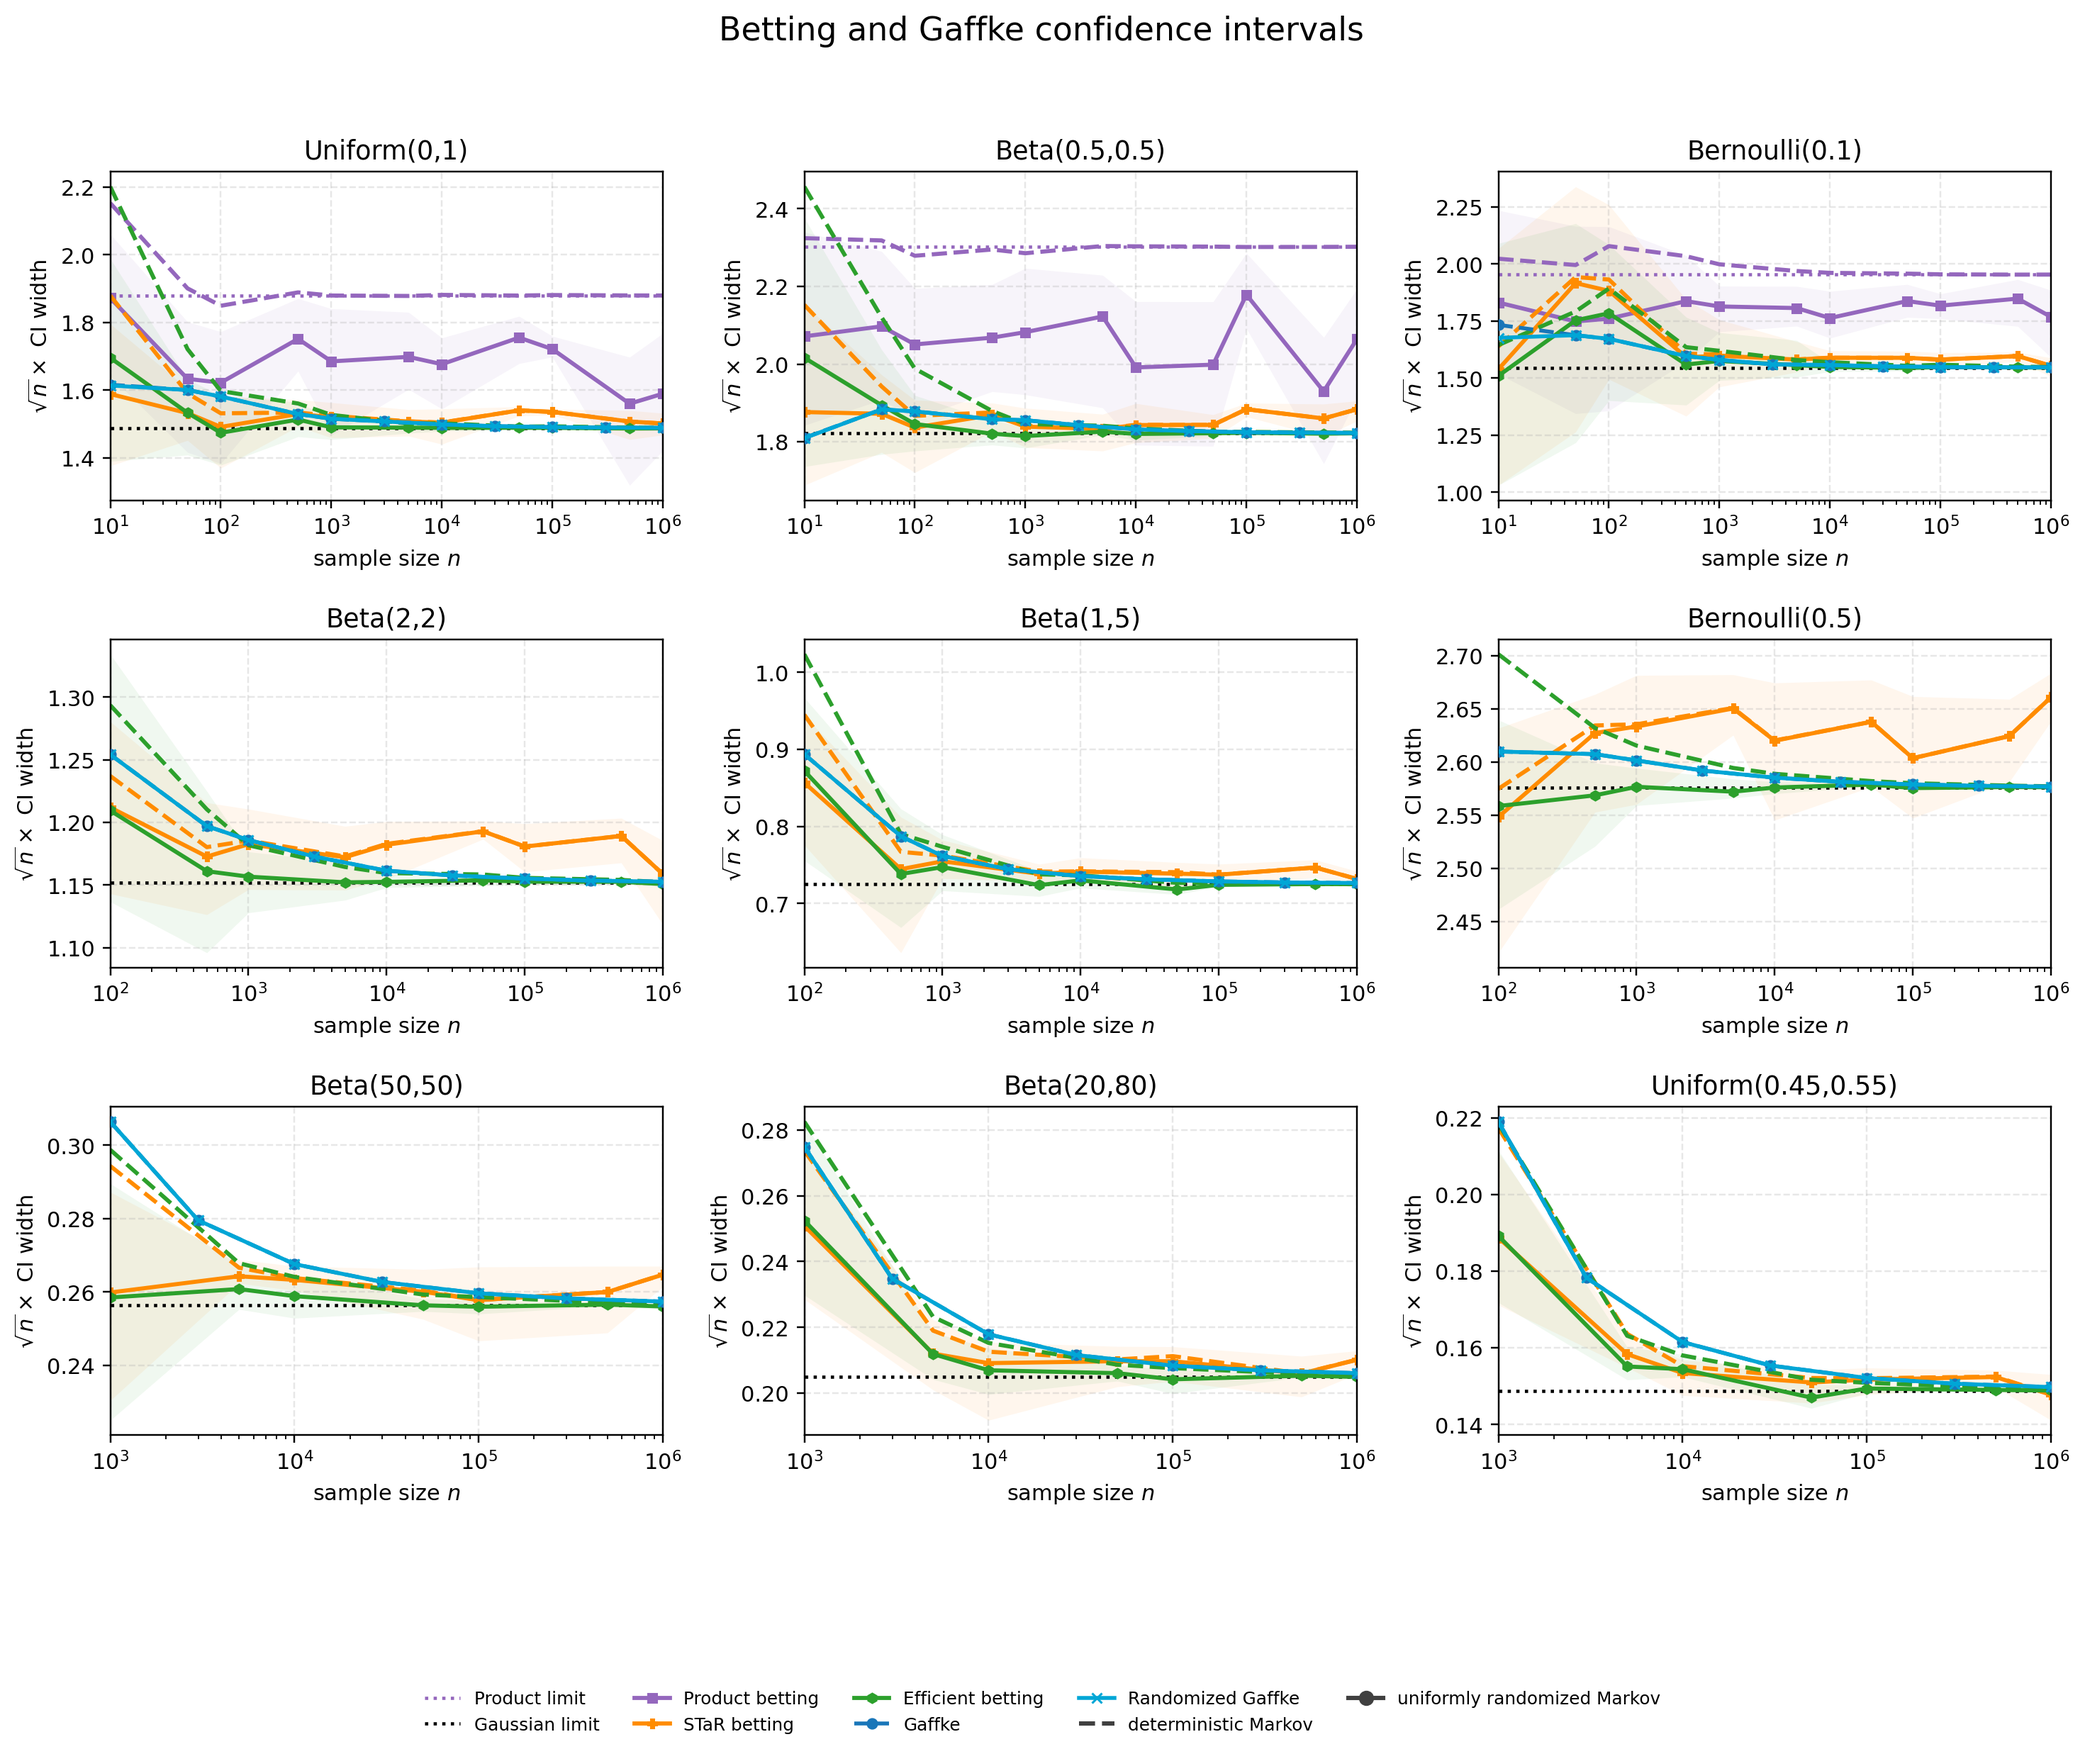
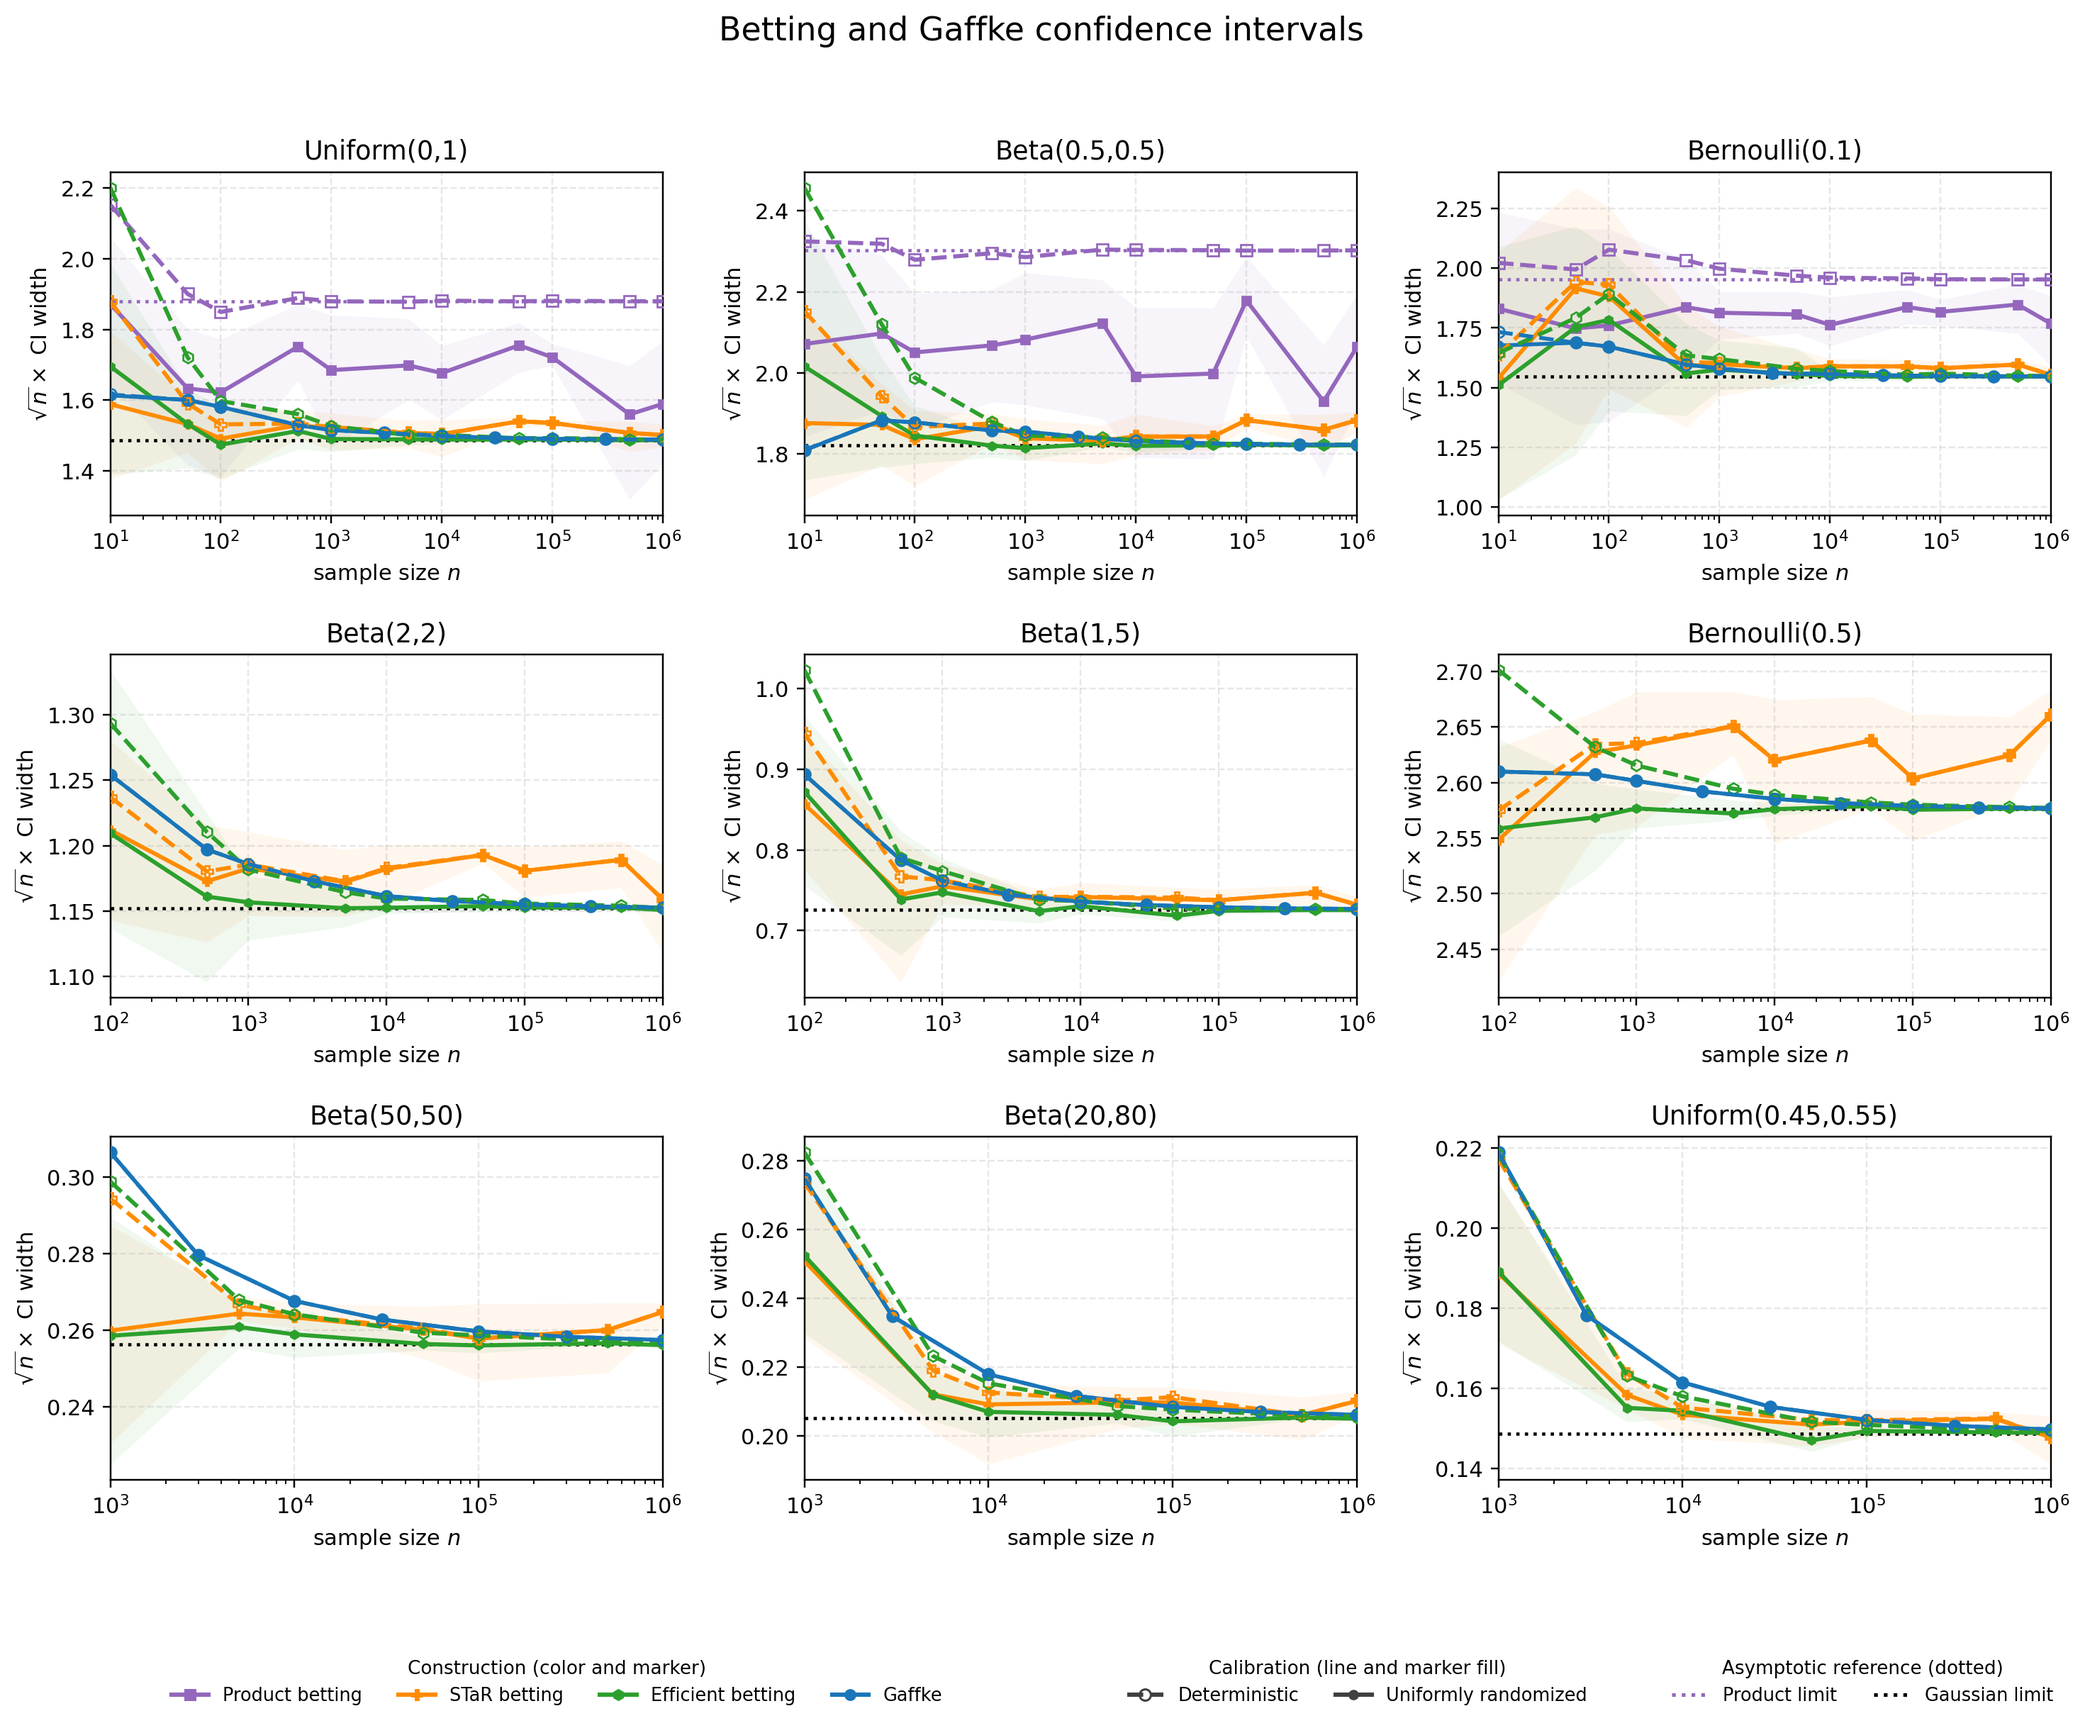
Redesign Figure 2 comparison legend

diff --git a/plot_combined_main_figure.py b/plot_combined_main_figure.py
@@ -56,6 +56,17 @@ PANEL_ORDER = (
 )
 ROW_MINIMUM_N = (10, 100, 1_000)
 MAXIMUM_N = 1_000_000
+GAFFKE_RANDOMIZED_ORDER = (
+    "Uniform(0,1)",
+    "Beta(1,5)",
+    "Beta(0.5,0.5)",
+    "Bernoulli(0.1)",
+    "Beta(50,50)",
+    "Beta(20,80)",
+    "Beta(2,2)",
+    "Bernoulli(0.5)",
+    "Uniform(0.45,0.55)",
+)
 
 METHODS = (
     ("product_original", "#9467bd", "s", "Product betting"),
@@ -214,7 +225,9 @@ def _reconstruct_source(
     tail_probability = float(config["delta"]) / 2.0
     randomized_rows: list[dict[str, object]] = []
 
-    for distribution_name in allowed_distributions:
+    for distribution_name in GAFFKE_RANDOMIZED_ORDER:
+        if distribution_name not in allowed_distributions:
+            continue
         distribution_index, distribution = distribution_by_name[
             distribution_name
         ]
@@ -368,7 +381,10 @@ def _plot_saved_rows(
     marker: str | None,
     label: str,
     linestyle: str,
-    fill: bool,
+    show_band: bool,
+    filled_marker: bool,
+    marker_size: float,
+    zorder: float,
 ) -> None:
     means = np.asarray([row["mean"] for row in rows], dtype=float)
     axis.plot(
@@ -376,12 +392,16 @@ def _plot_saved_rows(
         means,
         color=color,
         marker=marker,
-        ms=4.2,
+        markerfacecolor=color if filled_marker else "none",
+        markeredgecolor=color,
+        markeredgewidth=0.9,
+        ms=marker_size,
         lw=1.9,
         ls=linestyle,
         label=label,
+        zorder=zorder,
     )
-    if fill:
+    if show_band:
         lows = np.asarray([row["lo"] for row in rows], dtype=float)
         highs = np.asarray([row["hi"] for row in rows], dtype=float)
         axis.fill_between(
@@ -391,6 +411,7 @@ def _plot_saved_rows(
             color=color,
             alpha=0.07,
             linewidth=0.0,
+            zorder=1,
         )
 
 
@@ -437,7 +458,7 @@ def make_figure() -> Path:
                 color=color,
                 ls=":",
                 lw=1.5,
-                label=label,
+                label="_nolegend_",
             )
 
         row_methods = METHODS if panel_index < 3 else METHODS[1:]
@@ -459,22 +480,28 @@ def make_figure() -> Path:
             _plot_saved_rows(
                 axis,
                 betting_n,
-                [deterministic[index] for index in betting_indices],
+                [randomized[index] for index in betting_indices],
                 color=color,
-                marker=None,
+                marker=marker,
                 label="_nolegend_",
-                linestyle="--",
-                fill=False,
+                linestyle="-",
+                show_band=True,
+                filled_marker=True,
+                marker_size=3.8,
+                zorder=3,
             )
             _plot_saved_rows(
                 axis,
                 betting_n,
-                [randomized[index] for index in betting_indices],
+                [deterministic[index] for index in betting_indices],
                 color=color,
                 marker=marker,
-                label=label,
-                linestyle="-",
-                fill=True,
+                label="_nolegend_",
+                linestyle="--",
+                show_band=False,
+                filled_marker=False,
+                marker_size=5.2,
+                zorder=4,
             )
 
         panel_gaffke = gaffke[
@@ -482,20 +509,20 @@ def make_figure() -> Path:
             & (gaffke["n"] >= minimum_n)
             & (gaffke["n"] <= MAXIMUM_N)
         ]
-        for method, color, marker, linestyle, label in (
+        for method, linestyle, filled_marker, marker_size, zorder in (
             (
-                "Gaffke",
-                "#1976b9",
-                "o",
-                "--",
-                "Gaffke",
+                "Randomized Gaffke",
+                "-",
+                True,
+                3.8,
+                3,
             ),
             (
-                "Randomized Gaffke",
-                "#00a6d6",
-                "x",
-                "-",
-                "Randomized Gaffke",
+                "Gaffke",
+                "--",
+                False,
+                5.2,
+                4,
             ),
         ):
             method_rows = panel_gaffke[
@@ -504,13 +531,18 @@ def make_figure() -> Path:
             axis.plot(
                 method_rows["n"],
                 method_rows["mean"],
-                color=color,
-                marker=marker,
+                color="#1976b9",
+                marker="o",
+                markerfacecolor=(
+                    "#1976b9" if filled_marker else "none"
+                ),
+                markeredgecolor="#1976b9",
+                markeredgewidth=0.9,
                 ls=linestyle,
                 lw=1.8,
-                ms=4.3,
-                label=label,
-                zorder=4,
+                ms=marker_size,
+                label="_nolegend_",
+                zorder=zorder,
             )
 
         axis.set_xscale("log")
@@ -520,39 +552,78 @@ def make_figure() -> Path:
         axis.set_ylabel(r"$\sqrt{n}\times$ CI width")
         axis.grid(True, ls="--", alpha=0.3)
 
-    handles, labels = axes.ravel()[0].get_legend_handles_labels()
-    handles.extend(
-        [
-            Line2D([0], [0], color="0.25", ls="--", lw=2),
-            Line2D(
-                [0],
-                [0],
-                color="0.25",
-                ls="-",
-                marker="o",
-                lw=2,
-            ),
-        ]
-    )
-    labels.extend(
-        [
-            "deterministic Markov",
-            "uniformly randomized Markov",
-        ]
-    )
+    method_handles = [
+        Line2D(
+            [0], [0], color=color, marker=marker, lw=2,
+            markerfacecolor=color, markeredgecolor=color, ms=4.5,
+        )
+        for color, marker in (
+            ("#9467bd", "s"),
+            ("darkorange", "P"),
+            ("#2ca02c", "h"),
+            ("#1976b9", "o"),
+        )
+    ]
+    method_labels = [
+        "Product betting",
+        "STaR betting",
+        "Efficient betting",
+        "Gaffke",
+    ]
+    calibration_handles = [
+        Line2D(
+            [0], [0], color="0.25", ls="--", marker="o", lw=2,
+            markerfacecolor="none", markeredgecolor="0.25", ms=5.2,
+        ),
+        Line2D(
+            [0], [0], color="0.25", ls="-", marker="o", lw=2,
+            markerfacecolor="0.25", markeredgecolor="0.25", ms=3.8,
+        ),
+    ]
+    calibration_labels = ["Deterministic", "Uniformly randomized"]
+    reference_handles = [
+        Line2D([0], [0], color="#9467bd", ls=":", lw=1.7),
+        Line2D([0], [0], color="black", ls=":", lw=1.7),
+    ]
+    reference_labels = ["Product limit", "Gaussian limit"]
     fig.suptitle(
         "Betting and Gaffke confidence intervals",
         fontsize=15,
     )
     fig.legend(
-        handles,
-        labels,
+        method_handles,
+        method_labels,
         loc="lower center",
-        ncol=5,
-        fontsize=8.1,
+        bbox_to_anchor=(0.27, 0.012),
+        ncol=4,
+        fontsize=8.4,
+        title="Construction (color and marker)",
+        title_fontsize=8.6,
         frameon=False,
     )
-    fig.tight_layout(rect=(0.0, 0.115, 1.0, 0.955))
+    fig.legend(
+        calibration_handles,
+        calibration_labels,
+        loc="lower center",
+        bbox_to_anchor=(0.65, 0.012),
+        ncol=2,
+        fontsize=8.4,
+        title="Calibration (line and marker fill)",
+        title_fontsize=8.6,
+        frameon=False,
+    )
+    fig.legend(
+        reference_handles,
+        reference_labels,
+        loc="lower center",
+        bbox_to_anchor=(0.89, 0.012),
+        ncol=2,
+        fontsize=8.4,
+        title="Asymptotic reference (dotted)",
+        title_fontsize=8.6,
+        frameon=False,
+    )
+    fig.tight_layout(rect=(0.0, 0.09, 1.0, 0.955))
     for destination in (PAPER_OUTPUT, BETTING_OUTPUT):
         destination.parent.mkdir(parents=True, exist_ok=True)
         fig.savefig(destination, dpi=220, bbox_inches="tight")
